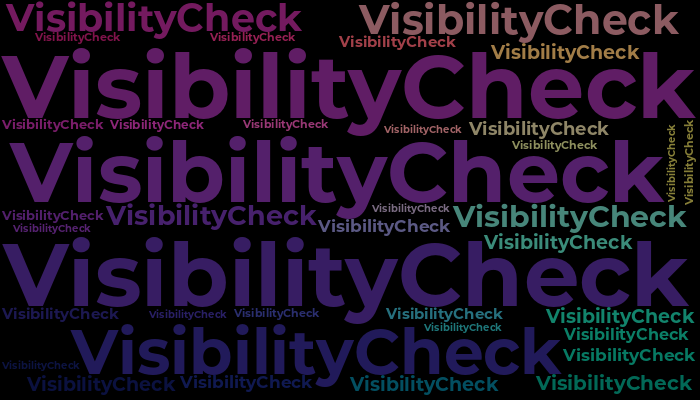
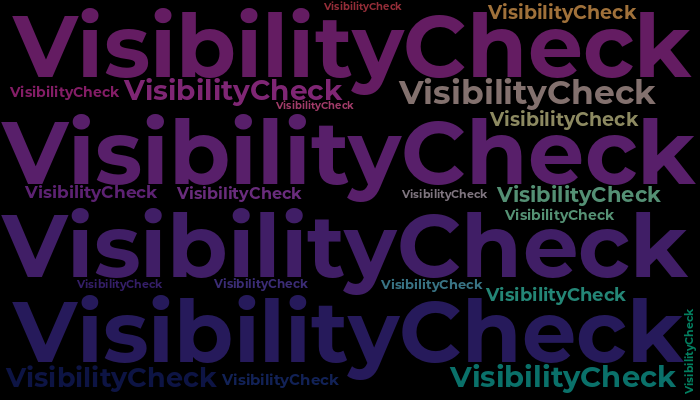
@rithiksarab added '112' to the Word Cloud

diff --git a/README.md b/README.md
@@ -14,7 +14,7 @@ Join the Word Cloud Board :cloud: :pencil2:
 
 ## 📛Github Usernames📛
 
-![Word Cloud Words Badge](https://img.shields.io/badge/Words%20in%20this%20Cloud-1-informational?labelColor=003995)
+![Word Cloud Words Badge](https://img.shields.io/badge/Words%20in%20this%20Cloud-2-informational?labelColor=003995)
 ![Word Cloud Contributors Badge](https://img.shields.io/badge/Cloud%20Contributors-1-blueviolet?labelColor=25004e)
 
 <img src="https://raw.githubusercontent.com/rithiksarab/wordCloudTMP/master/wordcloud/wordcloud.png" alt="WordCloud" width="100%">
